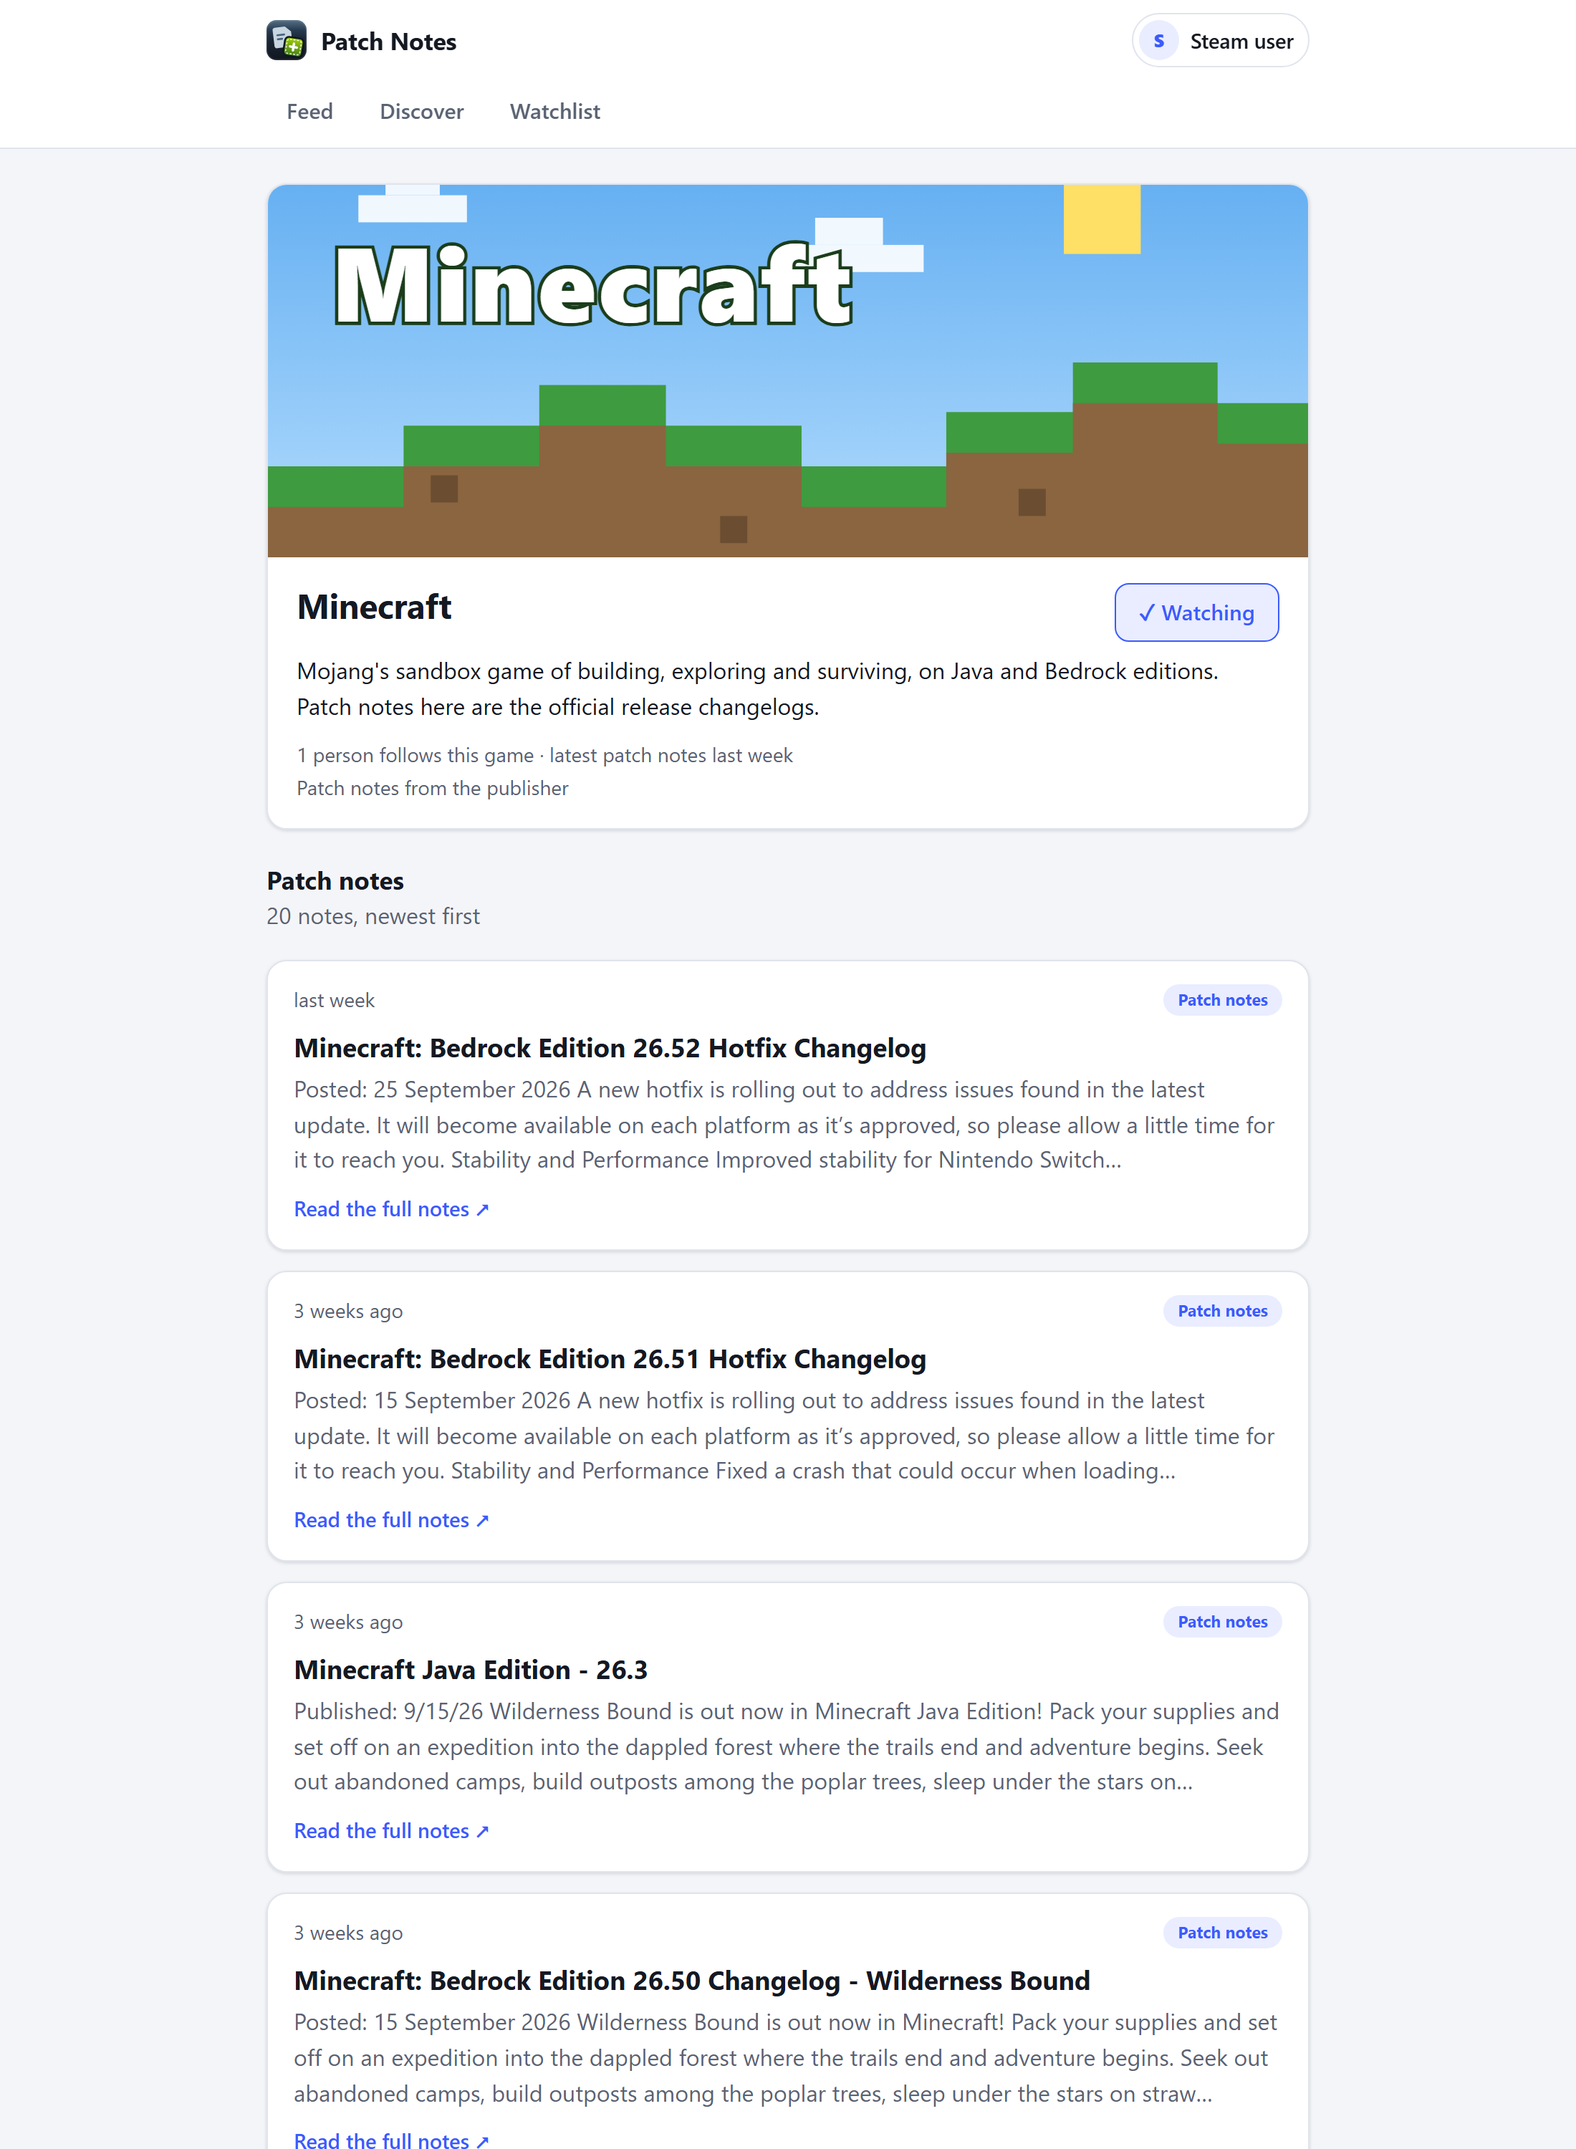
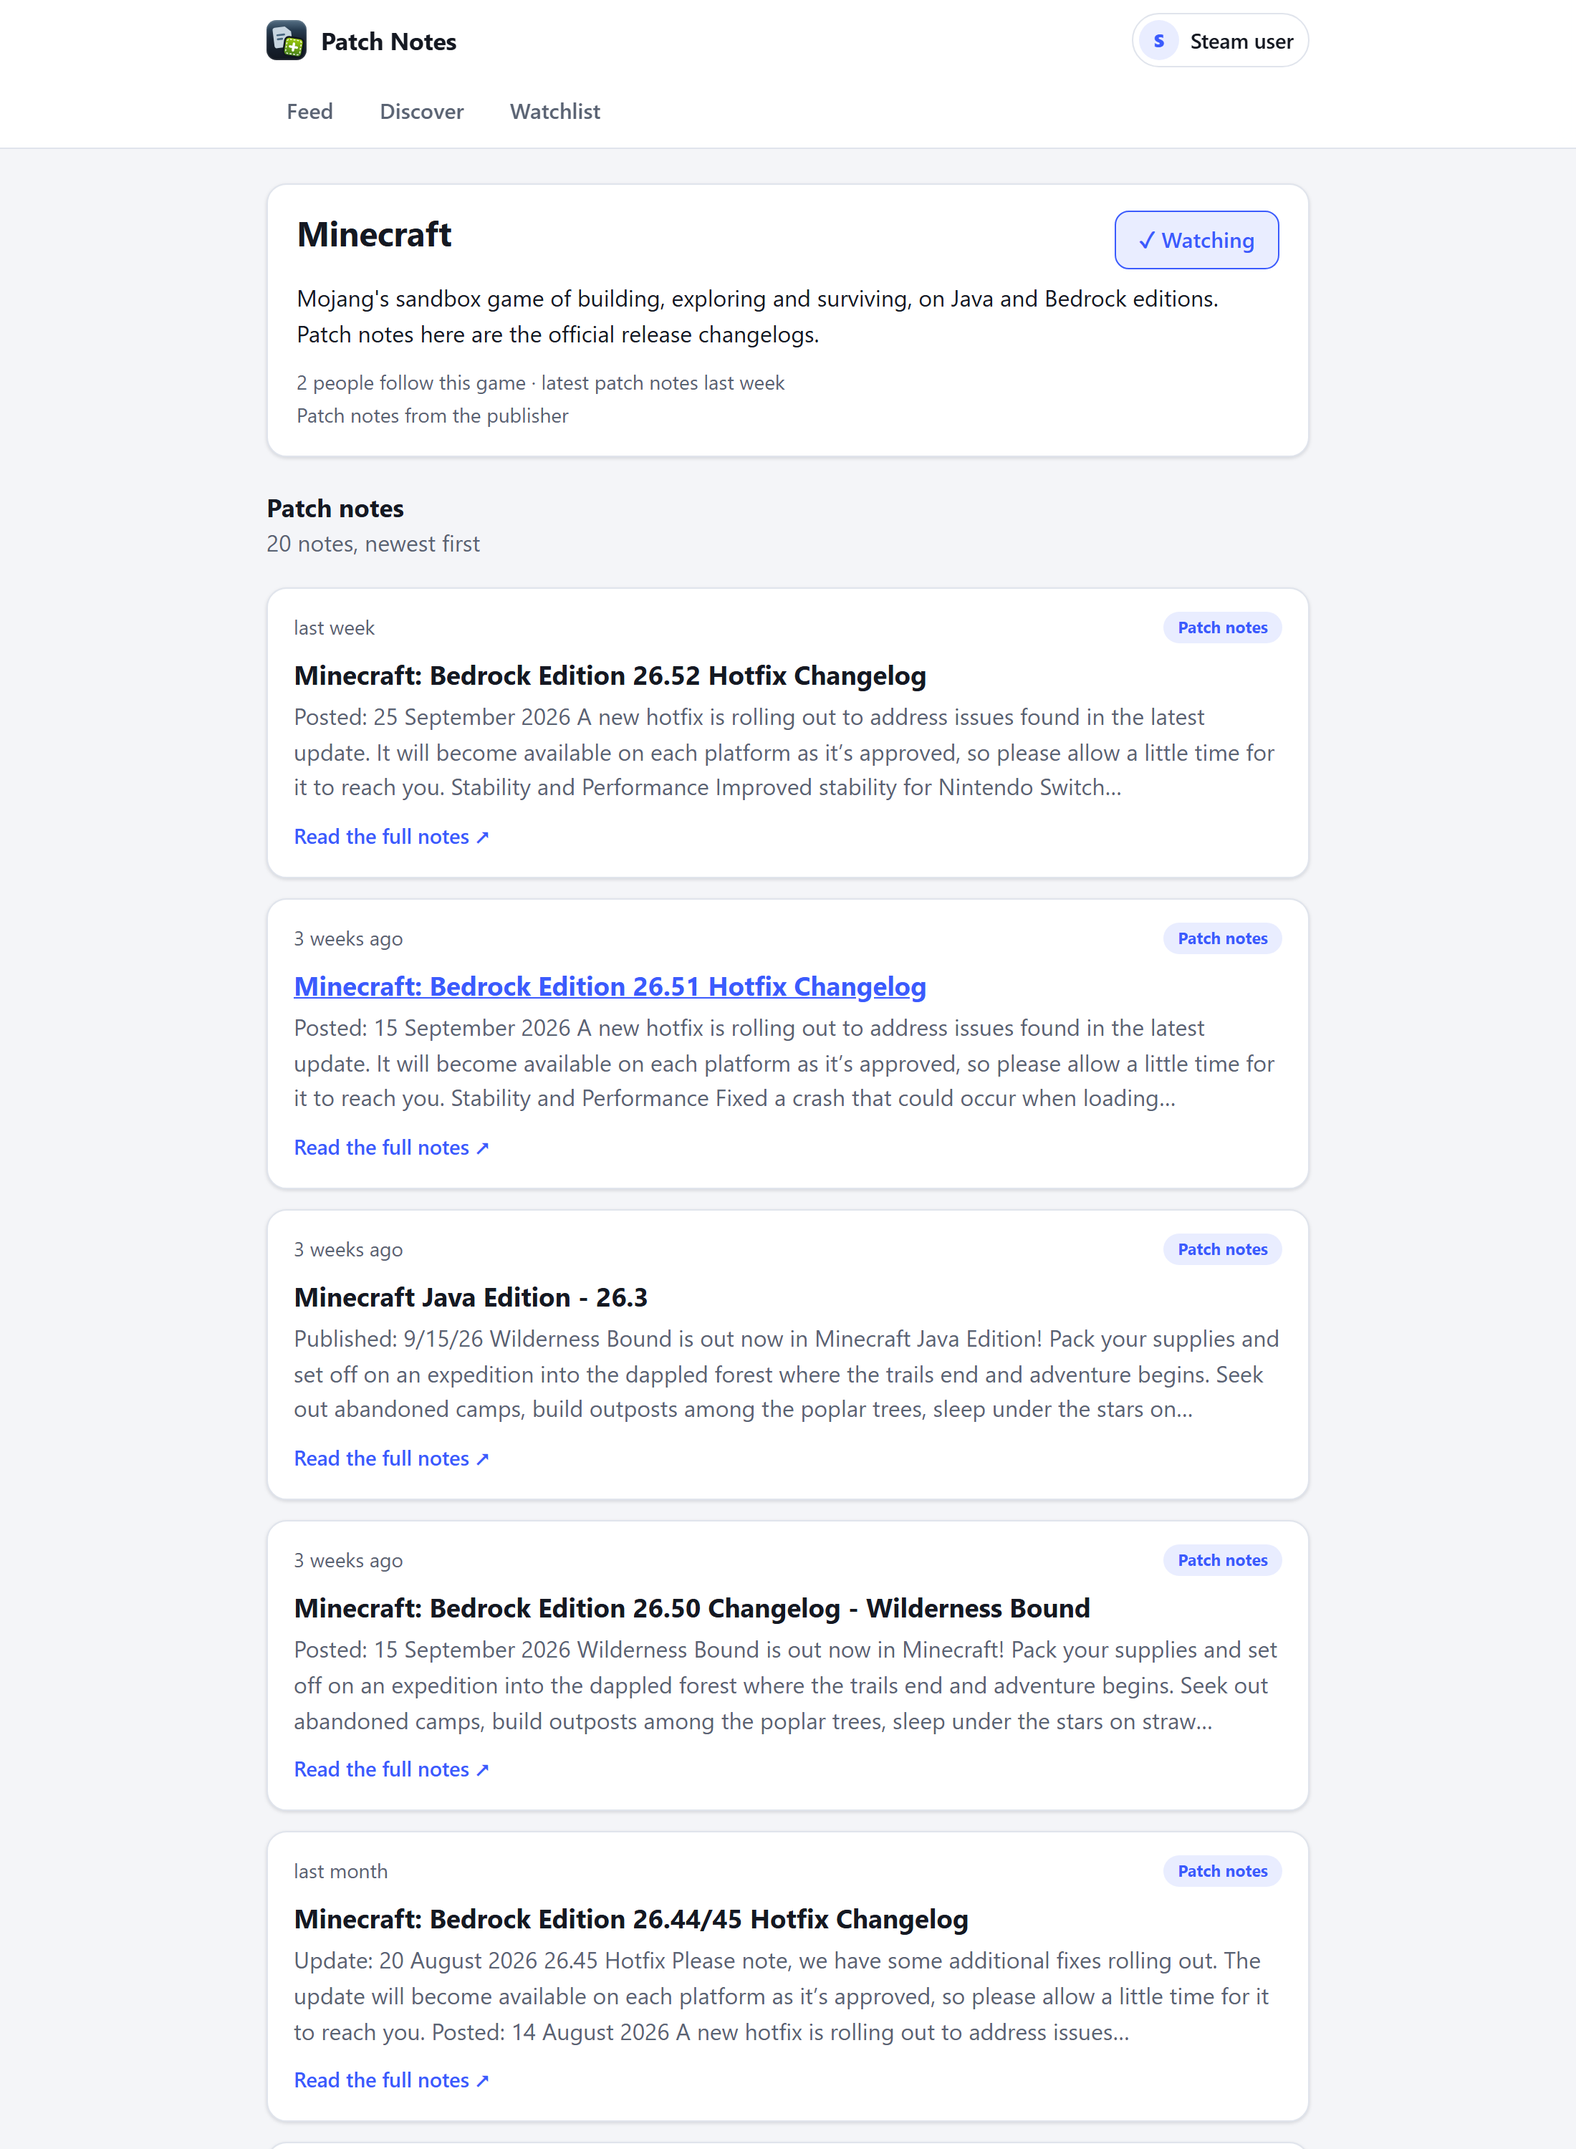
Drop the drawn artwork: games not on Steam show a lettered tile again
The original SVG covers and icons are removed, with their entries in application.yml, the
browser-test launcher's arguments, and the test that scanned them. The publishers' official
art could not be used in their place: Riot's press page offers only logos (which its fan
rules ban), Roblox does not allow its logo, and Mojang's guidelines could not be read.

The optional `image` and `icon` fields stay, with their /art/-only check, so a licensed file
can be dropped into web/public/art/ and named in an entry later; a test checks that any
path an entry names exists. The README and docs/non-steam-games.md no longer mention
artwork except to say why there is none, and the screenshots are retaken.

Changed region(s): [[0.1545, 0.062, 0.8345, 1.0]]

diff --git a/e2e/screenshots/screenshots.spec.ts b/e2e/screenshots/screenshots.spec.ts
@@ -25,7 +25,7 @@ async function follow(page: Page, name: string) {
   await expect(row.getByRole('button', { name: /^stop watching /i })).toBeVisible();
 }
 
-/** Covers and icons come from Steam's CDN, or are this site's own art: wait until every picture on the page has really loaded. */
+/** Covers and icons come from Steam's CDN: wait until every picture on the page has really loaded. */
 async function picturesLoaded(page: Page) {
   await page.waitForLoadState('networkidle');
   await page.waitForFunction(() => [...document.images].every((image) => image.complete && image.naturalWidth > 0), undefined, { timeout: 30_000 });
@@ -67,7 +67,7 @@ test('take the README screenshots', async ({ page, browser }) => {
   await small.screenshot({ path: `${OUT}/feed-phone.png` });
   await phone.close();
 
-  // 3. finding games: the most popular first, Steam covers next to the art made for games that are not on Steam
+  // 3. finding games: the most popular first, Steam covers next to the games that are not on Steam
   await navLink(page, 'Discover').click();
   await page.setViewportSize({ width: 1100, height: 1300 });
   await expect(page.getByText(/most popular first/)).toBeVisible();
@@ -98,11 +98,10 @@ test('take the README screenshots', async ({ page, browser }) => {
   await picturesLoaded(page);
   await page.screenshot({ path: `${OUT}/game.png` });
 
-  // 6. the page of a game that is not on Steam: the project's own cover art, and the publisher's real notes
+  // 6. the page of a game that is not on Steam: the publisher's real notes
   await navLink(page, 'Watchlist').click();
   await page.getByRole('link', { name: exactly(NON_STEAM_PAGE_GAME) }).click();
   await expect(page.getByRole('heading', { level: 1, name: NON_STEAM_PAGE_GAME })).toBeVisible();
-  await expect(page.locator('img.game-cover')).toHaveAttribute('src', '/art/minecraft-cover.svg');
   await expect(page.locator('article').first()).toBeVisible();
   await picturesLoaded(page);
   await page.screenshot({ path: `${OUT}/game-minecraft.png` });

diff --git a/e2e/tests/custom-games.spec.ts b/e2e/tests/custom-games.spec.ts
@@ -15,16 +15,12 @@ test('a game that is not on Steam: found by name, followed, and its notes read f
   await expect(row.getByText('Patch notes from the publisher')).toBeVisible();
   await expect(row.getByRole('link', { name: /view on steam/i })).toHaveCount(0);
 
-  // its own artwork, from this site, in the list: a real picture that loaded, not the lettered tile
-  const thumb = row.locator('img.game-thumb');
-  await expect(thumb).toHaveAttribute('src', '/art/roblox-cover.svg');
-  expect(await thumb.evaluate((image: HTMLImageElement) => image.complete && image.naturalWidth > 0)).toBe(true);
+  // no cover art for it: the list shows its lettered tile, never a broken picture
+  await expect(row.locator('img.game-thumb')).toHaveCount(0);
 
   await row.getByRole('link', { name: 'Roblox', exact: true }).click();
   await expect(page.getByRole('heading', { level: 1, name: 'Roblox' })).toBeVisible();
-  const cover = page.locator('img.game-cover');
-  await expect(cover).toHaveAttribute('src', '/art/roblox-cover.svg');
-  expect(await cover.evaluate((image: HTMLImageElement) => image.complete && image.naturalWidth > 0)).toBe(true);
+  await expect(page.locator('img.game-cover')).toHaveCount(0);
   await expect(page.getByRole('heading', { name: 'Not tracked yet' })).toBeVisible();
 
   await page.getByRole('button', { name: /^watch roblox/i }).click();

diff --git a/src/test/java/com/vandrae/patchnotes/fetch/internal/ShippedCustomGamesTest.java b/src/test/java/com/vandrae/patchnotes/fetch/internal/ShippedCustomGamesTest.java
@@ -10,7 +10,6 @@ import org.springframework.core.env.StandardEnvironment;
 import org.springframework.core.io.ClassPathResource;
 
 import java.io.IOException;
-import java.nio.file.Files;
 import java.nio.file.Path;
 import java.time.Duration;
 import java.util.List;
@@ -51,28 +50,11 @@ class ShippedCustomGamesTest {
     }
 
     @Test
-    void everyShippedGameHasItsOwnCoverAndIconAndTheFilesExist() throws IOException {
+    void anyArtAShippedGameNamesIsAFileThatExists() throws IOException {
+        // no art ships today (the app draws a lettered tile), but a path that points at nothing would be a broken picture
         for (CustomGame game : shipped()) {
-            assertThat(game.image()).as(game.name() + " cover").isNotBlank();
-            assertThat(game.icon()).as(game.name() + " icon").isNotBlank();
-            for (String path : List.of(game.image(), game.icon())) {
+            for (String path : java.util.stream.Stream.of(game.image(), game.icon()).filter(java.util.Objects::nonNull).toList()) {
                 assertThat(Path.of("web/public" + path)).as(game.name() + ": " + path).isRegularFile();
-            }
-        }
-    }
-
-    @Test
-    void theArtIsPlainDrawingWithNothingThatRunsOrReachesOutToAnotherSite() throws IOException {
-        // an SVG is a small program, and it is served from our own address: keep it to shapes and text
-        try (var files = Files.list(Path.of("web/public/art"))) {
-            for (Path file : files.toList()) {
-                String svg = Files.readString(file).replace("xmlns=\"http://www.w3.org/2000/svg\"", "");
-                assertThat(Files.size(file)).as(file + " size").isLessThan(8_000);
-                assertThat(svg).as(file.toString()).doesNotContainIgnoringCase("<script")
-                        .doesNotContainIgnoringCase("<foreignObject").doesNotContainIgnoringCase("<image")
-                        .doesNotContainIgnoringCase("<use").doesNotContainIgnoringCase("javascript:")
-                        .doesNotContain("http://").doesNotContain("https://")
-                        .doesNotContainPattern("(?i)\\son[a-z]+\\s*=");
             }
         }
     }

diff --git a/src/main/java/com/vandrae/patchnotes/fetch/internal/CustomGamesProperties.java b/src/main/java/com/vandrae/patchnotes/fetch/internal/CustomGamesProperties.java
@@ -26,7 +26,7 @@ public record CustomGamesProperties(@DefaultValue("true") boolean enabled, List<
      * @param description one or two plain sentences for the game's page
      * @param popularity  where it sorts when browsing Discover, among Steam games ordered by reviews and chart players; a
      *                    game that is not on Steam has neither, so this stands in (it orders, it does not measure)
-     * @param image       the game's cover, a file in this site's {@code /art/} folder (original artwork: a publisher's logos and
+     * @param image       the game's cover, a file in this site's {@code /art/} folder (none ship today: a publisher's logos and
      *                    key art are only used with its permission, which most do not give); absent = a generated tile
      * @param icon        the game's small square icon, likewise; absent = a generated tile
      * @param sources     where its patch notes are read from; the results of all of them are combined

diff --git a/docs/non-steam-games.md b/docs/non-steam-games.md
@@ -71,34 +71,15 @@ Turning other publishers' web pages into feeds is not done: it breaks whenever a
 
 ## Artwork
 
-Steam games get their cover and icon from Steam. A game that is not on Steam gets **original artwork made for this project**:
-a cover (460 by 215, the shape of Steam's) and a square icon, as small hand-written SVG files in `web/public/art/`, named in the
-game's entry:
+Steam games get their cover and icon from Steam. A game that is not on Steam has none: the app draws a lettered tile, and its
+page has no cover. That is on purpose. The publishers' official art could not be used: Riot's press page offers only logos, and
+Riot's fan-project rules ban its logos; Roblox does not allow its logo; Mojang's guidelines could not be read. Nothing is
+hotlinked from a publisher either.
 
-```yaml
-- name: Roblox
-  image: /art/roblox-cover.svg
-  icon: /art/roblox-icon.svg
-```
-
-**Why not the publishers' own art?** I read their policies first, and the answer was no for every one of them:
-
-| Publisher | What its policy says (October 2026) |
-|---|---|
-| Riot (League of Legends, VALORANT) | Fan projects may use Riot's assets non-commercially, **but "you may not use any of our logos or trademarks anywhere in your Project"**. Its news banners are either one character's skin art (not the game) or promo graphics with a season mark baked in, and run from 340 KB to 2.7 MB. |
-| Roblox | Its logo is not permitted for general use, and it says it does not grant unsolicited requests to use it. |
-| Minecraft | Non-commercial fan sites are covered by Mojang's usage guidelines, but I could not read the page itself and the summaries I found were unclear about logos and screenshots. |
-
-So nothing here is a publisher's logo, key art or screenshot, and nothing is hotlinked from a publisher's servers: the files are
-served from this site, which also means the page's image policy needs no exceptions. Two rules enforce that:
-
-- **Startup refuses anything else.** `image` and `icon` must be a file in this site's `/art/` folder (lower-case letters, digits
-  and dashes; `.svg`, `.png`, `.webp` or `.jpg`). A web address, `/art/../x` or another folder fails with a clear message.
-- **A test checks the art itself** (`ShippedCustomGamesTest`): every shipped game has both files, and each SVG is small and has
-  no script, no embedded image, no link to another site and no event handlers, because an SVG is a small program.
-
-If a publisher ever offers official art with a licence that fits, putting it in `web/public/art/` and naming it in the entry is
-all it takes. A game with no art still works: the app draws a lettered tile.
+An entry can still name art (`image` and `icon`), which must be a file in this site's `/art/` folder (lower-case letters,
+digits and dashes; `.svg`, `.png`, `.webp` or `.jpg`); startup refuses a web address or any other path, and a test checks the
+file exists. No art ships today. If a publisher offers official art with a licence that fits, putting the file in
+`web/public/art/` and naming it in the entry is all it takes.
 
 What these games still lack compared to Steam games: genres, review ratings and a "View on Steam" link (their line says "Patch
 notes from the publisher" instead), and their Discover position comes from the configured `popularity`, not from reviews.

diff --git a/README.md b/README.md
@@ -23,7 +23,7 @@ stack with HTTPS.
 - **Follow games** and read a feed of their patch notes. Each game has its own page with its follower count and full
   history. Only the games somebody follows are ever fetched, on an adaptive schedule that keeps API calls low.
 - **Games that are not on Steam** (Roblox, Minecraft, League of Legends, VALORANT) are read from the publishers' own feeds.
-  Adding another game that offers a feed is one entry of configuration, no code, and each has its own artwork. [Details and the rules for adding one](docs/non-steam-games.md).
+  Adding another game that offers a feed is one entry of configuration, no code. [Details and the rules for adding one](docs/non-steam-games.md).
 - **Careful with other people's content and your data**: it keeps a short excerpt and a link back, never the full post;
   it logs no addresses or secrets; rate limits protect the sign-in and the Steam calls; there is a privacy page and one
   button to delete your account.
@@ -37,8 +37,8 @@ stack with HTTPS.
       <br><sub><b>The feed.</b> Patch notes from every game you follow, newest first: a short excerpt and a link to the full notes. The filters wait behind one button.</sub>
     </td>
     <td width="50%" valign="top">
-      <img src="docs/screenshots/discover.png" alt="Discover: the most popular games first, with Steam covers beside original artwork for League of Legends, Minecraft, Roblox and VALORANT">
-      <br><sub><b>Finding games.</b> Search all of Steam (about 190,000 games), or browse the most popular. Games that are not on Steam, like League of Legends, Minecraft, Roblox and VALORANT, sit alongside with their own artwork.</sub>
+      <img src="docs/screenshots/discover.png" alt="Discover: the most popular games first, with Steam covers beside League of Legends, Minecraft, Roblox and VALORANT, which are not on Steam">
+      <br><sub><b>Finding games.</b> Search all of Steam (about 190,000 games), or browse the most popular. Games that are not on Steam, like League of Legends, Minecraft, Roblox and VALORANT, sit alongside.</sub>
     </td>
   </tr>
   <tr>
@@ -53,8 +53,8 @@ stack with HTTPS.
   </tr>
   <tr>
     <td width="50%" valign="top">
-      <img src="docs/screenshots/game-minecraft.png" alt="The page of Minecraft, a game that is not on Steam: original cover artwork and the official release changelogs read from Mojang's help centre">
-      <br><sub><b>A game that is not on Steam.</b> Minecraft's notes come from Mojang's own changelogs; the cover is original artwork made for this project, not Mojang's.</sub>
+      <img src="docs/screenshots/game-minecraft.png" alt="The page of Minecraft, a game that is not on Steam: the official release changelogs read from Mojang's help centre">
+      <br><sub><b>A game that is not on Steam.</b> Minecraft's notes come from Mojang's own changelogs.</sub>
     </td>
     <td width="50%" valign="top" align="center">
       <img src="docs/screenshots/feed-phone.png" alt="The feed on a phone" width="260">
